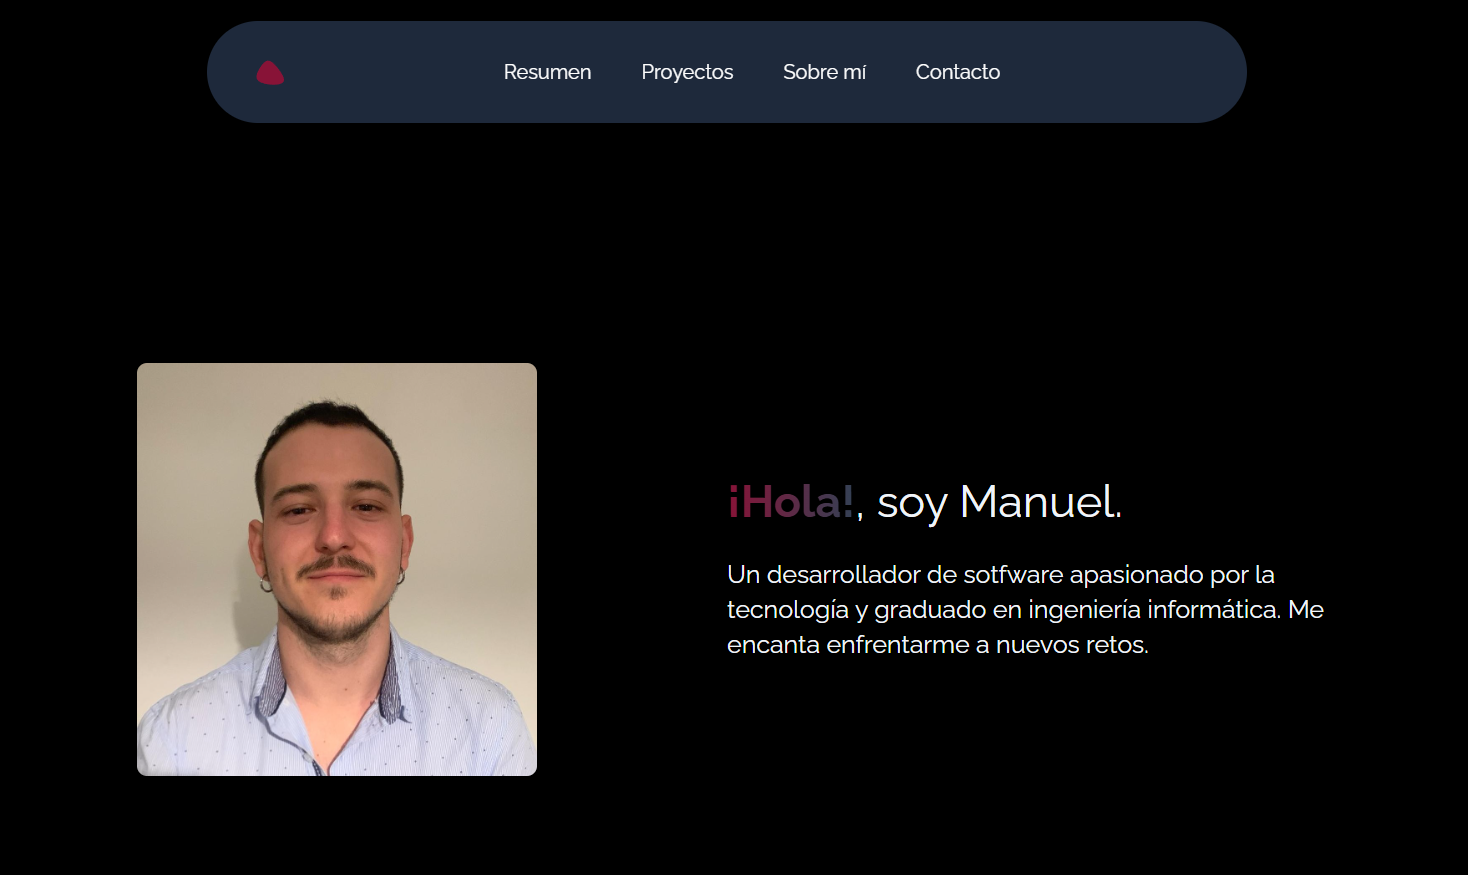
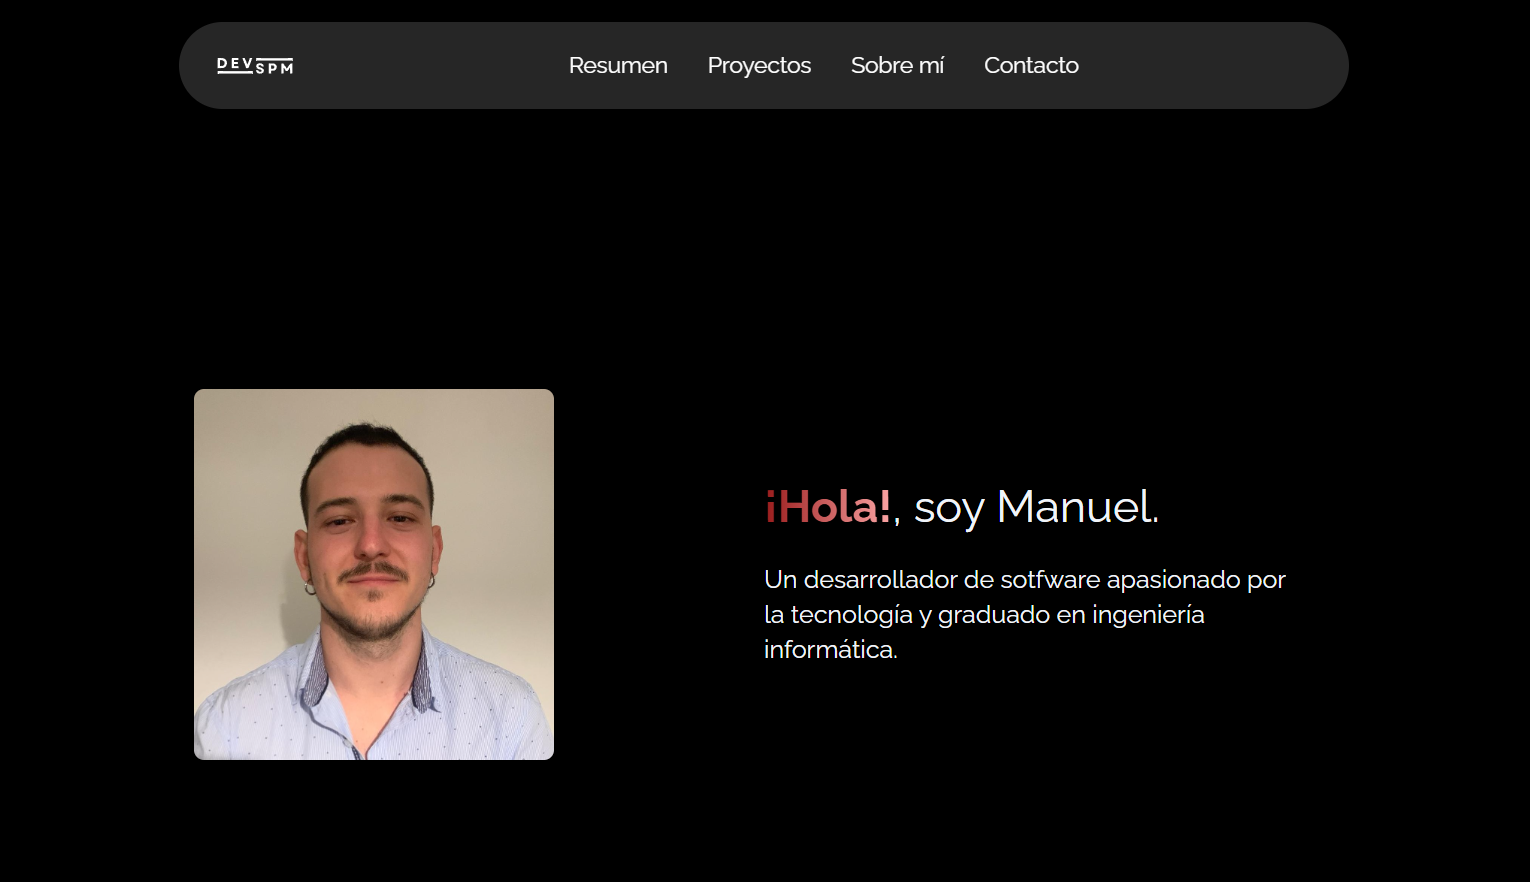
Add About section and enhance layout and styling

diff --git a/src/components/Projects.jsx b/src/components/Projects.jsx
@@ -2,29 +2,29 @@
 
 export default function Projects() {
   return (
-    <div className="flex flex-col gap-10 justify-start w-full pt-10 px-14 md:px-20 lg:px-24 h-full">
-      <div className="">
-        <div className="text-3xl font-bold text-center text-slate-100">
+    <div id="projects" className="text-white flex flex-col gap-10 w-full py-32 px-14 md:px-24 xl:px-48 2xl:px-56 h-full my-10 sm:my-10">
+      <div>
+        <div className="text-3xl font-bold text-center">
           Proyectos
         </div>
-        <div className="text-lg text-center text-slate-100">
+        <div className="text-lg text-center">
           Algunos de los proyectos en los que he trabajado.
         </div>
       </div>
-      <div id="block" className="bg-slate-700 flex flex-col gap-5 md:flex-row p-5 md:p-14 rounded-lg 
-                                items-center md:items-start text-center md:text-start">
-        <div className="flex flex-col w-full md:w-1/2 text-slate-50 items-center md:items-start">
+      <div id="block" className="bg-[rgba(255,255,255,0.1)] flex flex-col gap-5 md:flex-row p-5 md:p-14 rounded-xl 
+                                items-center md:items-start text-center md:text-start ">
+        <div className="flex flex-col w-full md:w-1/2 items-center md:items-start">
           <p className="text-xl mb-3 md:text-2xl lg:text-2xl font-bold">
             Portfolio
           </p>
           <p className="sm:text-lg lg:text-xl">
-            <a>Página web personal creada con </a>
-            <a className="font-bold bg-slate-950 text-transparent bg-clip-text">React </a>
-            <a>y </a>
-            <a className="font-bold bg-slate-950 text-transparent bg-clip-text">TailwindCSS</a>
+            Página web personal creada con
+            <a className="font-bold bg-gradient-to-r from-red-800 to-red-300 text-transparent bg-clip-text"> React </a>
+            y
+            <a className="font-bold bg-gradient-to-r from-red-800 to-red-300 text-transparent bg-clip-text"> TailwindCSS </a>
           </p>
         </div>
-        <div className="overflow-hidden border rounded-lg h-auto w-3/4 mb-3 md:mb-0 md:w-1/2 text-center">
+        <div className="overflow-hidden rounded-xl h-auto w-3/4 mb-3 md:mb-0 md:w-1/2 text-center">
           <img className="w-full h-full object-cover" src="/img/portfolio.png" />
         </div>
       </div>

diff --git a/src/components/Header.jsx b/src/components/Header.jsx
@@ -1,23 +1,23 @@
 import { useState } from 'react'
 
-import logo from '/favicon.svg'
+import logo from '/icono.svg'
 import Menu from '../assets/Menu'
 
 export default function Header() {
   let Links = [
-    { name: 'Resumen' },
-    { name: 'Proyectos' },
-    { name: 'Sobre mí' },
-    { name: 'Contacto' }
+    { name: 'Resumen', href: '#dashboard' },
+    { name: 'Proyectos', href: '#projects' },
+    { name: 'Sobre mí', href: '#about' },
+    { name: 'Contacto', href: '#contact' },
   ]
 
   const [isOpen, setIsOpen] = useState(false)
 
   return (
-    <div className="w-full md:w-4/5 lg:w-3/4 sm:sticky z-10 sm:top-0 bg-slate-800 border border-transparent 
+    <div className="w-full md:w-4/5 xl:w-3/4 sm:sticky z-10 sm:top-0 bg-neutral-800 border border-transparent 
                   sm:rounded-full px-10 sm:px-7 py-5 sm:mt-5 text-white sm:flex justify-between items-center">
       <div className="flex justify-between">
-        <img className="flex w-10" src={logo} />
+        <img className="flex w-16" src={logo} />
         <div onClick={() => setIsOpen(!isOpen)} className='sm:hidden flex items-center cursor-pointer'>
           {
             console.log(isOpen)
@@ -26,11 +26,11 @@ export default function Header() {
         </div>
       </div>
       <ul className={`sm:flex sm:flex-1 sm:flex-row flex-col items-center space-y-5 sm:space-y-0 sm:pl-0 sm:items-center 
-                      sm:justify-center sm:pt-0 pt-5 ${isOpen ? 'flex' : 'hidden'} md:text-lg text-base`}>
+                      sm:justify-center sm:pt-0 pt-5 ${isOpen ? 'flex' : 'hidden'} lg:text-lg text-base`}>
         {
           Links.map((link) => (
-            <li key={link.name} className="sm:ml-8">
-              <a>{link.name}</a>
+            <li key={link.name} className="sm:ml-8 hover:text-red-500">
+              <a href={link.href}>{link.name}</a>
             </li>
           ))
         }

diff --git a/src/components/About.jsx b/src/components/About.jsx
@@ -1,0 +1,33 @@
+
+export default function About() {
+  return (
+    <div id="about" className='min-h-screen text-white py-32'>
+      <p className="text-3xl font-bold text-center mb-10">
+        Sobre mí
+      </p>
+      <div id="text" className="text-lg sm:text-xl px-20 sm:px-32 md:px-44 lg:px-52 xl:px-80 2xl:px-96">
+        <p>
+          Como graduado en Ingeniería Informática en la Universidad de Granada, con una experiencia
+          reciente como <a className="text-red-400">desarrollador de software backend</a> en prácticas, me encuentro altamente motivado
+          para avanzar en mi carrera profesional.
+        </p>
+        <br></br>
+        <p>
+          Mi experiencia en el desarrollo backend, utilizando tecnologías como <a className="text-red-400">Python</a>, <a className="text-red-400">PHP</a> y
+          <a className="text-red-400"> MongoDB</a>, me ha permitido adquirir habilidades en el diseño y desarrollo de <a className="text-red-400">API REST</a>, así como en
+          el trabajo en equipo y la resolución de problemas.
+        </p>
+        <br></br>
+        <p>
+          Además, mi formación en Ingeniería Informática me ha proporcionado una base sólida en programación
+          y desarrollo de software a la par que adquirir habilidades más allá de este campo, como lo son
+          el <a className="text-red-400">trabajo en equipo</a>, la <a className="text-red-400">dedicación</a> y el <a className="text-red-400">esfuerzo</a>.
+        </p>
+        <br></br>
+        <p>
+          No dudes en contactar conmigo si tienes alguna pregunta o sugerencia 😀.
+        </p>
+      </div>
+    </div>
+  )
+}

diff --git a/src/components/Dashboard.jsx b/src/components/Dashboard.jsx
@@ -2,22 +2,24 @@
 
 export default function Dashboard() {
   return (
-    <div className="">
-      <div className='flex flex-col my-16 sm:my-24 md:my-36 lg:my-48 md:h-full md:flex-row gap-7 md:gap-0
+    <div id="dashboard">
+      <div className='flex flex-col my-32 md:my-56 md:h-full md:flex-row gap-7 md:gap-0
                     text-slate-100 justify-start items-center'>
         <div className="overflow-auto flex w-full sm:w-1/2 justify-center">
           <img className="rounded-lg w-1/2 max-w-60 sm:w-3/5 sm:max-w-72 sm:min-w-52 md:min-w-44 shadow-2xl" src="/img/perfil.jpg" />
         </div>
         <div className="flex flex-col w-1/2 sm:pr-12 md:pr-28 lg:pr-48">
           <div className="lg:text-4xl md:text-3xl text-2xl mb-6">
-            <a className="font-bold bg-gradient-to-r from-rose-900 to-slate-700 text-transparent bg-clip-text">
-              ¡Hola!
-            </a>
-            <a>, soy Manuel.</a>
+            <p>
+              <a className="font-bold bg-gradient-to-r from-red-800 to-red-300 text-transparent bg-clip-text">
+                ¡Hola!
+              </a>
+              , soy Manuel.
+            </p>
           </div>
-          <a className="sm:text-lg md:text-xl">
-            Un desarrollador de sotfware apasionado por la tecnología y graduado en ingeniería informática. Me encanta enfrentarme a nuevos retos.
-          </a>
+          <p className="sm:text-lg md:text-xl">
+            Un desarrollador de sotfware apasionado por la tecnología y graduado en ingeniería informática.
+          </p>
         </div>
 
       </div>

diff --git a/src/components/Footer.jsx b/src/components/Footer.jsx
@@ -2,9 +2,21 @@
 
 export default function Footer() {
   return (
-    <div className="mt-16 h-28 w-screen px-36 bg-slate-900 text-slate-50">
-      <div className="h-full flex justify-center items-center">
-        <p>Footer</p>
+    <div id="contact" className="flex flex-col justify-between mt-16 h-full w-screen px-16 sm:px-24 md:px-36 lg:px-48 xl:px-60 py-5 bg-[rgba(255,255,255,0.1)] text-slate-50">
+      <div className="flex h-full flex-col">
+        <div className="mb-3 font-bold">
+          <p>Datos de contacto</p>
+        </div>
+        <div className="">
+          <p>Tlfn: +34 678970643</p>
+        </div>
+        <div className="">
+          <p>e-mail: hola@spmanuel.es</p>
+        </div>
+      </div>
+      <div className="w-full border-t-2 border-dashed border-gray-300 my-5"></div>
+      <div className="flex h-full items-end justify-end">
+        <p>&copy; {new Date().getFullYear()} Manuel Sánchez Pérez. Todos los derechos reservados.</p>
       </div>
     </div>
   )

diff --git a/src/index.css b/src/index.css
@@ -2,6 +2,10 @@
 @tailwind components;
 @tailwind utilities;
 
+html {
+  scroll-behavior: smooth;
+}
+
 @keyframes appear {
   from {
     opacity: 0;
@@ -20,7 +24,13 @@
   animation-range: entry 0% cover 30%;
 }
 
-@media (max-width: 768px) {
+#text {
+  animation: appear linear;
+  animation-timeline: view();
+  animation-range: entry 0% cover 20%;
+}
+
+@media (max-width: 640px) {
   #block {
     animation: appear linear;
     animation-timeline: view();

diff --git a/src/App.jsx b/src/App.jsx
@@ -1,6 +1,7 @@
 import Header from './components/Header'
 import Dashboard from './components/Dashboard'
 import Projects from './components/Projects'
+import About from './components/About'
 import Footer from './components/Footer'
 
 function App() {
@@ -9,7 +10,7 @@ function App() {
       <Header />
       <Dashboard />
       <Projects />
-      <div className='min-h-screen'></div>
+      <About />
       <Footer />
     </main>
   )
